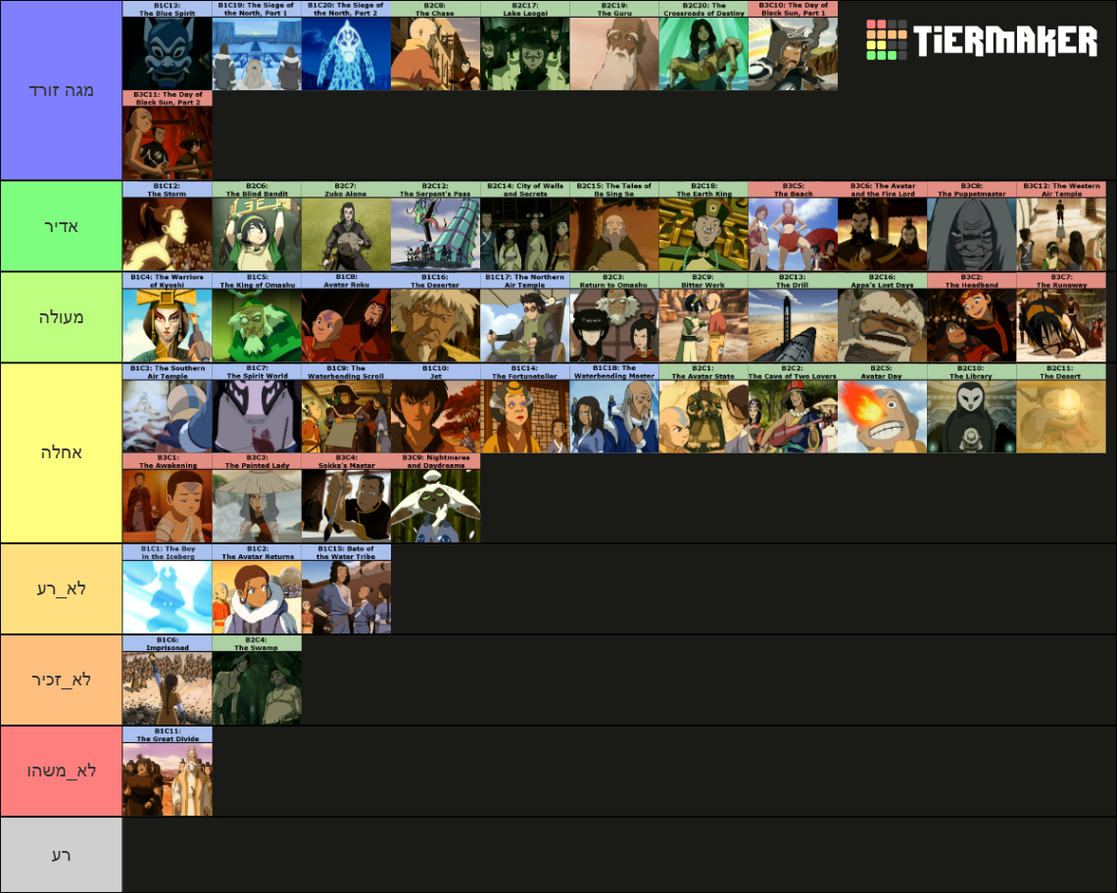
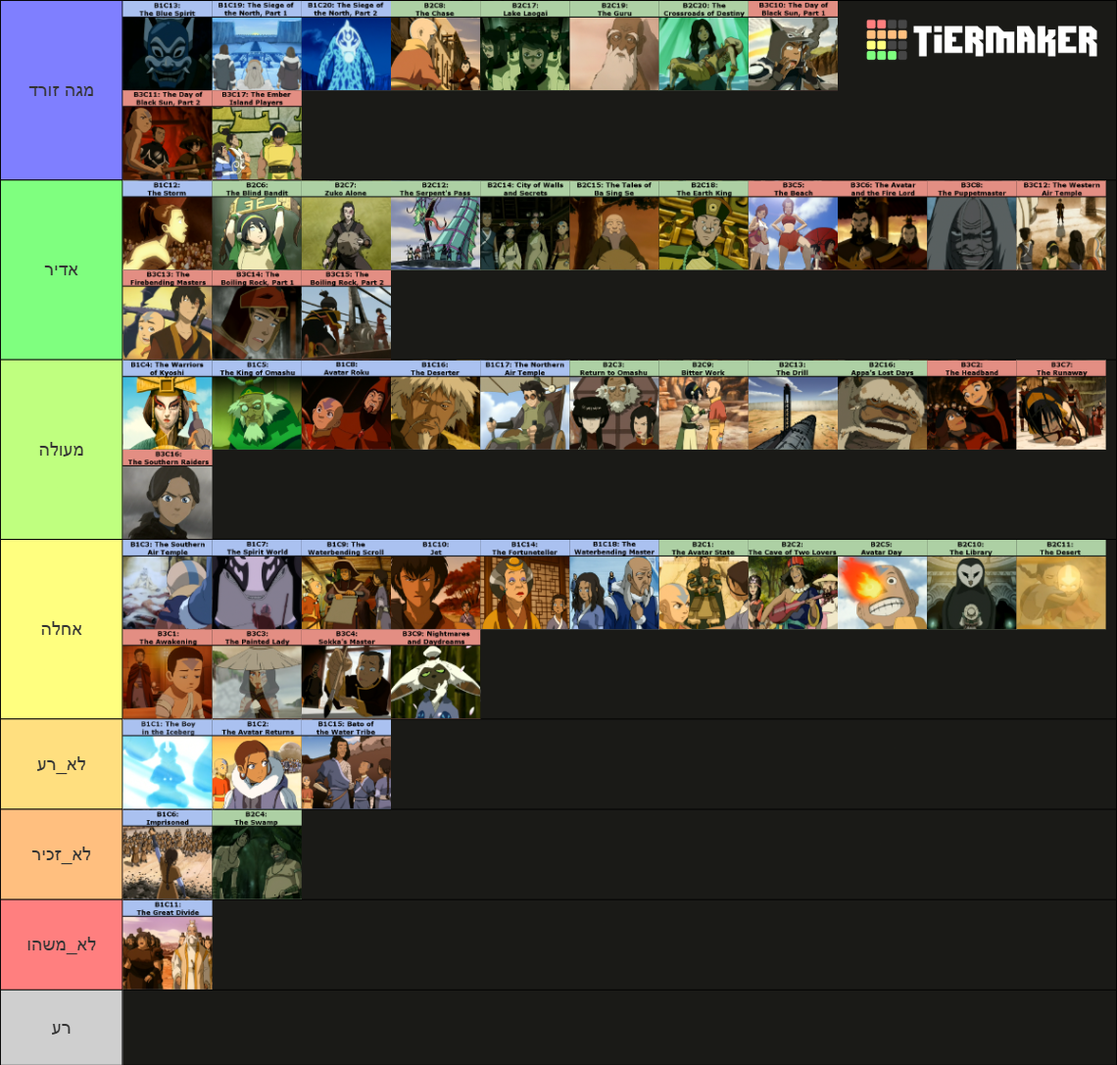
watch episode 317

diff --git a/עונה 3/313 - מאסטרי כשפות האש.md b/עונה 3/313 - מאסטרי כשפות האש.md
@@ -1,0 +1,39 @@
+![](images/313.png "313")
+## *תקציר:*
+- זוקו מנסה ללמד את אנג כשפות אש, אך מהר מאוד אנחנו מגלים שהוא איבד את הכשפות שלו. אנג חושד שזה בגלל שהכשפות של זוקו הסתמכה על זעם ושנאה, וכעת כשהם כבר לא קיימים אצלו אין לו אנרגיות לתעל אל הכשפות. טוף מציעה להם ללמוד מחדש את הכשפות מיסודה, דרך המקור – הדרקונים.
+- זוקו ואנג יוצאים לחקור את חורבות ציוויליזציית לוחמי השמש – ציוויליזציה נכחדת שסגדה לדרקונים, וממנה התפתחה אומת האש כפי שאנחנו מכירים אותה. מהר מאוד מתברר שאותה ציוויליזציה לא ממש נכחדה, אלא חיה בסתר במשך מאות שנים כדי להגן על עצמה ועל הדרקונים. לוחמי השמש מסכימים להביא את אנג וזוקו אל מאסטרי כשפות האש שמנהיגים אותם – רן ושו – כדי שאלו ישפטו אותם ויחליטו אם ללמדם.
+- המאסטרים רן ושו מתבררים כדרקונים, ואלו מראים לאנג ולזוקו חיזיון – האש שלהם מורכבת מכל צבעי הקשת. ודי בזה כדי ללמד אותם את האמת היסודית שבכשפות האש. היכולות של זוקו חוזרות אליו, ובפעם הראשונה אנג מבין שאש היא לא רק הרס, אלא גם אנרגיית החיים.
+
+## *סיכום במשפט:* 
+אש המכבייה
+
+## *ראוי לציון:* 
+- אני אוהב שאנחנו עדיין באותו מקום, במקדש האוויר המערבי. אני מקווה שנישאר פה למשך עוד כמה פרקים ושהמקום הזה יהפך למעין בית / בסיס המבצעים של טים אווטאר.
+- זוקו החדש הוא דמות חדשה, ונשאלת השאלה: מי הוא בכלל? איך הוא בתור בן אדם, איך הוא עם אנשים, איך הוא מדבר ואיך הוא מתנהג? אלו דברים שהפרק הזה עוסק בהם ובהצלחה ובהחלט נראה גם בפרקים הבאים
+- הפרק מרחיב מאוד את הדמות של איירו, ומוסיף לו המון עומק. יפה לראות שזוקו פתאום מבין שגם איירו הוא דמות עם עבר מורכב. הסדרה גם רומזת שזוקו מאמץ לאט-לאט את המניירות של איירו: החיקוי שעשה בפרק הקודם, והאמירה בפרק הזה על "לתהות על מקומנו ביקום" – זה לא סתם גאג, יש שם ניחוחות ברורים של איירו. בפרק הזה, זוקו מסתכל על איירו ברטרוספקטיבה – הוא בצד השני של התהליך שאיירו ניסה להעביר אותו. הוא פתאום מבין את הדמות של דוד שלו מחדש, מעריך אותו יותר, וזה רק מגביר את האשמה שהוא חש.
+- גם בלי להגיד את זה במפורש, הפרק הזה בהחלט מראה את הקשר החדש שמתהווה בין אנג וזוקו. מספיקים חילופי דברים קטנים כמו "אתה בעצם די חכם" או "אני מאמין בך, אתה ילד מוכשר" כדי להעביר את המסר. זה חשוב, כי אנג הוא לא סתם עוד דמות בחיים של זוקו. הסדרה ביססה שותפות גורל בין השניים – העתיד שלהם שזור זה בזה. ההחלטה שאנג ילמד כשפות אש דווקא מזוקו היא לא מקרית: כשפות האש של זוקו הייתה מושרשת ברצון שלו לתפוס את אנג. -מבחינה נראטיבית זה מאוד חכם. הכותבים יודעים מה הם עושים – תכנון הסיפור ברמת המאקרו פשוט יוצא מן הכלל.
+- הפרק מוסיף הרבה עומק למושג כשפות האש, ומבסס את הרעיון שאומת האש המודרנית עיוותה את יסודות האמנות הזו. חלק חשוב מהשיבוש הזה הוא איבוד הכבוד לדרקונים. הסצנה של האש הצבעונית מאוד חזקה – גם ויזואלית מרהיבה וגם מעבירה בצורה אלגנטית את הרעיון הבסיסי של מהות כשפות האש, בלי מילים מיותרות.
+- הסיקוונס של הריקוד עם הדרקונים פשוט מגניב בטירוף.
+- בשעה טובה הפרק הזה סידר לי את עניין החיות, גם אם הוא לא אמר על זה הרבה במפורש.
+- בשלב הזה כל משפט, כל דיאלוג וכל רפליקה – הם פאן סרוויס. וזה טבעי, ככה זה תמיד כשמגיעים ליישורת האחרונה של סיפור שחלק גדול מהלב שלו הוא דינמיקה בין דמויות.
+ 
+## *פחות התחברתי:*
+- חבל לי על הארו, תיאו ודיוק. בהתחלה מאוד התלהבתי מזה שטים אווטאר מתרחב – זה מגניב בטירוף. אבל משום מה, הסדרה לא בקטע של זה: בשני הפרקים האחרונים היא דחקה את הדמויות האלו הצידה בכוח. אז למה מלכתחילה? אני בכלל חשבתי שהרעיון הוא להראות איך טים אווטאר מתפתחים מקבוצת חברים שמסתובבת סתם ככה לכוח לחימה משמעותי שסוחף אחריו אנשים. רציתי לראות את טים אווטאר נהיים שחקן הנהגתי חשוב במלחמה, לא רק ארבעה ילדים – אלא הנהגה משמעותית במלחמה הזו.
+* האמת שחשבתי שהסצנה שבה זוקו ואנג דבוקים ולא יכולים לזוז תתפתח למעין שיחת נפש עמוקה ביניהם, כי זה הרגיש כמו סטאפ קלאסי לסצנה כזו, שגם מאוד מתבקשת מבחינה תמתית וסיפורית. חבל שזה לא קרה בסוף.
+* זוקו לא חייך בסוף של הפרק.
+
+## *ה-MVP של הפרק:*  
+זוקו ואנג
+
+## *עתידות:*
+* המבט המחודש של זוקו על דוד איירו גורם לי להבין שהאיחוד של איירו וזוקו יגיע מאוד מאוחר. הסדרה תמשוך את תחושת האשמה של זוקו כלפי איירו עד הקצה.
+* אני מאוד מצפה לראות איך הסדרה תבנה את מערכת היחסים של סוקה וזוקו לאורך הפרקים הבאים. יש וייב שזה הולך להיות ברומאנס.
+* סביר להניח שעד פרקי הסיום של הסדרה יהיה פרק שלם שמתמקד באיך זוקו רוכש את האמון של קטארה. לדעתי הגיוני שזה יהיה פרק שעוסק גם בכשפות דם, ומעניין איך זוקו יגיב לזה. אולי למשל קטארה תאלץ להשתמש בכשפות דם כדי להגן על זוקו, ואולי זה איכשהו יצית משהו. או שאולי החיבור בין זוקו וקטארה יהיה דרך הצדדים האפלים שבשניהם.
+* הסדרה מתנהגת כאילו היא מעוניינת לאפשר גאולה לכל דמות שהיא מסוגלת לתת לה. אנחנו הולכים להתעמק הרבה ביותר בדילמה של אנג כשהוא יצטרך לעמוד מול אוזאי – האם הוא צריך להרוג אותו? האם הוא צריך לחוס עליו? אני לא יודע עדיין מה תהיה הפסיקה של הסדרה לגבי זה, אבל אני כן מאמין שמבחינת הסדרה לאוזאי אין תקנה. אבל לדעתי דווקא עבור אזולה הסדרה תשאיר פתח לגאולה קטנה – ככל הנראה בצורה של שיקום מערכת היחסים שלה עם זוקו. אני לא חושב שהיא תמות, אבל עדיין יצטרכו להביס אותה ולהתעמת איתה. בעיני גם טיי לי ומאי יצטרכו לקבל גאולה, וכנראה על ידי כך שהן יתנגדו אל אזולה. הכי הגיוני לי שזה יקרה בצורה של עימות ישיר של זוקו מול אזולה, שבו מאי תחליט שהיא מצדדת בזוקו במקום באזולה בגלל שהיא אוהבת אותו, וטיי לי כנראה תלך בעקבותיה ותעזור להם גם.
+* אני לא חושב שנזכה לקבל סגירה לעניין של אמא של זוקו בתחומי הסדרה הזו. אני כן חושב שהסדרה תסתיים כשזוקו יהיה הפיירלורד והוא ירצה ללכת לחפש אותה או לברר מה קרה לה. אבל אני לא מאמין שנראה את זה. לדעתי אין לזה מקום בסיפור של הסדרה
+* יש גם את עניין המבוגרים שנשארו בכלא ואני לא יודע כמה הסדרה תטרח להקדיש לזה זמן ומחשבה. כנ"ל לגבי סוקי.
+* מבחינת טוף הדבר היחידי שלא הסתיים זה מערכת היחסים שלה עם ההורים שלה. ראינו שהיא רוצה להתפייס איתם ושהיא שלחה להם מכתב, אבל לא ראינו מה קורה עם זה. אז אולי נזכה לראות את זה קורה.
+* הפרק הבא הוא פרק כפול. אין לי מושג למה לצפות ואיזה מין איבנט הוא עשוי לגולל. הימור שלי – נקבל פרק על ימיו האבודים של בוסקו.
+
+## *דירוג הפרק:*  
+אדיר

diff --git a/עונה 3/316 - הפושטים הדרומיים.md b/עונה 3/316 - הפושטים הדרומיים.md
@@ -1,0 +1,41 @@
+ ![](images/316.png "316")
+## *תקציר:*
+- קטארה עדיין זועמת על זוקו, והוא מוכן לעשות הכל כדי לפייס אותה. לאחר שהוא מתייעץ עם סוקה, זוקו מבין שקטארה עדיין מתמודדת עם זיכרון אובדן אימה שנרצחה בידי חיילי אומת האש, ומקשרת את הטראומה אליו. הוא מחליט לעזור לה למצוא את האיש שרצח את אימה, בתקווה לאפשר לה סגירת מעגל.
+- השניים יוצאים יחד למסע כדי לאתר את המפקד של הפושטים הדרומיים – היחידה של אומת האש שתקפה את שבט המים הדרומי. הם מתחקים אחר פעילות צבא האש ומצליחים לאתר את האיש – קצין זקן שכבר פרש מהצבא וחי חיים שקטים וחסרי השפעה.
+- במהלך המסע, קטארה מתמודדת עם רגשות קשים של כעס, כאב ורצון לנקמה. היא שוקלת להרוג את מפקד הפושטים הדרומיים, אך ברגע האמת, כשהיא עומדת מולו, היא מבינה שהוא כבר אדם מרוקן, חלש ופחדן – לא דמות רבת עוצמה כמו שזכרה מהעבר. לבסוף, קטארה מחליטה לחוס על חייו – לא מתוך מחילה, אלא כי היא מבינה שנקמה לא תרפא את הכאב. זוקו מכבד את ההחלטה שלה, והקשר ביניהם מתחזק. כשהם חוזרת למחנה, היא פונה לאנג ומביעה את הכרת התודה שלה על כך שהוא תמך בדרך של חמלה.
+- הפרק מסתיים כשזוקו מאמת את אנג עם שאלת מיליון הדולר, זו שאנו הצופים תוהים לגביה כבר זמן רב: בבוא העת, כיצד יתמודד אנג בפני אוזאי, נוכח דגילתו בגישה אנטי-אלימה?
+
+## *סיכום במשפט:* 
+איפה gran gran?
+
+## *ראוי לציון:* 
+- פרק טוב מאוד – זו הייתה דרך חזקה ורגשית לקרב בין זוקו לקטארה. שניהם אנשים שמתקשים לבטא רגשות, והמפגש ביניהם נעשה מתוך הבנה עמוקה של כאב אישי.
+- סצנת האקשן בתחילת הפרק מטורפת: זוקו מתגלה כיריב שקול לאזולה, מצליח להילחם באש הכחולה שלה, ונראה שהכוחות ביניהם מתאזנים – הוא מתחזק, והיא הולכת ומתפרקת.
+- בכל פרק שעובר, אנחנו רואים החמרה במצבה המנטלי של אזולה. לדעתי הבגידה של מאי וטיי לי בסוף הפרק הקודם היא הטריגר לכך. לא רק שהיא פחות יציבה, אלא שעכשיו היא גם מונעת משנאה גלויה כלפי זוקו ורצון לחסל אותו, לעומת הזלזול שראינו ממנה בעבר.
+- נראה שיכולות הקפיצה לרוחק של זוקו הופכות לאבסורדיות מפרק לפרק
+- סצנת הכשפות של קטארה (לא רק כשפות דם) מאוד אפקטיבית – האווירה לחוצה, מאיימת, כמעט אימתנית. היכולות שלה לא מוצגות ככוח מגניב אלא כמשהו שמעורר יראה ורתיעה.
+## *פחות התחברתי:*
+- רעיונית, זה פרק חזק מאוד – אבל משהו בקצב או בביצוע הכולל לא התחבר לי עד הסוף.
+- היה לי רגע של אכזבה מהאופן שבו הסדרה בחרה לסכם את נושא כשפות הדם. קטארה משתמשת בכשפות הדם על האדם הלא נכון, וזה מספק לה רגע של הארה – כמה הנקמה מכלה, אפילו כשהיא מוצדקת.
+- בנוסף, אני מרגיש שזוקו לא הגיב בצורה מספקת לחשיפת הכוח הזה – הייתה לו שנייה של הלם, אבל הוא התאושש ממנה מהר מדי.
+- לא חבל על המקדש? אלפי שנים…
+- הרגע שבו קטארה סולחת לזוקו הרגיש לי חפוז מדי. נכון שהוא הרוויח את הסליחה שלה, אבל החיבוק היה מעט מוגזם. מחווה אחרת או בחירה אחרת של מילים היו עדיפות לטעמי.
+- רציתי לראות יותר כימיה וחילופי מילים משמעותיים ביניהם – מעבר לחיבור על בסיס כאב משותף.
+
+## *ה-MVP של הפרק:*  
+קטארה
+
+## *עתידות:*
+- לדעתי, אזולה תסיים את דרכה בהתמוטטות עצבים קשה. היא הולכת ומאבדת אחיזה, ולדעתי הכיוון הוא שהסדרה מתכוונת לסיים את הקשת העלילתית שלה בהתמוטטות עצבים קיצונית.
+- לדעתי ברגע האחרון, בהתאם למגמת ההדרדרות הנפשית של אזולה, היא הולכת להתהפך ממש. לדעתי ברגעי הסיום אזולה ואוזאי ילחמו ממניעים שונים: אזולה תילחם כדי לשבת על כס הפיירלורד, ואוזאי יביע חוסר נכונות להוריש לה אותו. לדעתי הסדרה לא יכולה להסתיים בלי שאזולה תילחם בשביל עצמה ולא בשביל אבא שלה. אולי אפילו היא בעצמה תהרוג את אוזאי והקרב הסופי של אנג יהיה בכלל מולה.
+- אני עדיין חושב הדרך היחידה להביס את אזולה תהיה על ידי שיתוף פעולה של כשפים מכל היסודות.
+- השערה לחלוקת פרקי הסיום:
+	- 318 - סגירת קצוות: איחוד בין זוקו ואיירו, חזרה של מאי וטיי לי (שייתכן שיצטרפו לצד "שלנו"), וכן הופעת דמויות מהעבר כמו בומי, הרוקחת, מגדת העתידות. כנראה גם רגעים נוסטלגיים שמסכמים את הדרך.
+	- 319 - אנג מגיע להחלטה: לדעתי יהיה פרק שלם שמוקדש להתחבטות של אנג בסוגיה כיצד להתעמת מול אוזאי. יהיה מעין דיאלוג פנימי, ואני לא מופתע אם תהיה גם גיחה לעולם הרוחות באיזושהי קונסטלציה.
+	- 320 - השביט: הקליימקס אליו חיכינו במשך כל הסדרה. יהיו קרבות מרהיבים, ולבסוף יגיע סיום מפתיע ולא צפוי בכלל שיוביל אותנו אל קליימקס אלטרנטיבי שונה ממה שהסדרה הכינה אותנו אליו
+	- 321 - אקורד הסיום: קליימקס אלטרנטיבי שלא נוגע אל אוזאי. לדוגמה: 
+		- אזולה מאבדת את זה סופית, מוציאה את אוזאי מחוץ לתמונה ומביאה לשולחן איום הרבה יותר חמור מהאיום של אוזאי (נגיד החרבה טוטאלית של העולם)
+		- אוזאי מובס אבל אנג נתקע במצב האווטאר, זורע הרס, והחברים מנסים להוציא אותו מזה
+		החצי השני של הפרק מוקדש לסגירת קצוות ולפרידות.
+## *דירוג הפרק:*
+מעולה

diff --git a/עונה 3/317 - שחקני אמבר איילנד.md b/עונה 3/317 - שחקני אמבר איילנד.md
@@ -1,0 +1,28 @@
+ ![](images/317.png "317")
+## *תקציר:*
+- החבורה מחליטה להשתלט על בית הקיץ הישן של משפחתו של זוקו באמבר איילנד. זוקו טוען שזה המקום האחרון שבו אזולה ואוזאי יחשבו לחפש אותם. סוקה מגלה על קיומה של הצגה מקומית שמבוססת על עלילותיהם — כפי שהן נתפסות בעיני תושבי אומת האש. החבורה מסוקרנת ומחליטה בתור בילוי ללכת לצפות בהצגה.
+- ההצגה, שמבוצעת על ידי להקת שחקנים מוגזמים ומגוחכים, מציגה את כל מה שקרה לאורך הסדרה, אך בצורה מעוותת, שטחית ולעיתים מביכה. אנג מגולם על ידי שחקנית, סוקה מדבר בעיקר על אוכל, קטארה בוכה כל הזמן, וטוף מתוארת כגבר גדול וחטוב. החבורה מגיבה בצחוק, גיחוך ולעיתים בתסכול כשהם רואים כיצד אחרים תופסים אותם.
+- מעבר להומור, הפרק מעורר מתחים רגשיים ישנים: אנג מתמודד עם רגשותיו הלא פתורים כלפי קטארה, קטארה מתלבטת לגבי מה שהיא באמת מרגישה, זוקו מתעמת עם רגשות האשמה שלו על עברו, וטוף פשוט נהנית מהכאוס.
+- הפרק מסתיים כשהשחקנים מציגים סוף "אלטרנטיבי" שבו האווטאר מפסיד, מה שמטלטל את אנג ואת שאר החבורה. למרות הכול, הם מבינים שההצגה אולי שטחית, אבל המאבק האמיתי עוד לפניהם – ואין מקום לספקות.
+
+## *סיכום במשפט:* 
+אווטאר – דברי הימים
+
+## *ראוי לציון:* 
+- איזה פרק אדיר ומקורי. אני חושב שזה פרק מבריק, שבעצם מנסה להשיג שני דברים: הראשון הוא לספק לנו הצופים סיכום של הדרך שעברנו, וגם לדמויות עצמן רטרוספקטיבה על המסע שלהן; השני הוא לספק חוויה קלילה, מצחיקה ומהנה רגע לפני הפינאלה האפית של הסדרה. לדעתי הפרק מצליח באופן מושלם בשתי המטרות.
+- לדעתי הרעיון להציג את כל זה דרך מחזה שבו הדמויות צופות בעצמן הוא מקורי, מרענן ומצוין.
+- בפרק יש הרבה הומור עצמי ומודעות עצמית. הסדרה מסתלבטת על האלמנטים היותר חלשים שבה, כמו הפרק של השבר הגדול או על זה שלא ברור מה עלה בגורלו של ג'ט.
+- הפרק מדגיש את הפער בין איך שאנשים רואים את עצמם, איך שאחרים רואים אותם – ואיך ההיסטוריה (או הזיכרון הקולקטיבי) מציגה אותם. יש כאן ביקורת על האופן שבו היסטוריה נכתבת: היא לא תמיד נאמנה למציאות, ולעיתים מגמתית – משרתת נרטיב מסוים, בהתאם לערכים של ההיסטוריון או של המדינה (כמו אומת האש). מבחינת האינטרפרטציה של אומת האש, מעניין לראות איך אזולה מוצגת לא כלוחמת חזקה אלא כמישהי רגילה שמנצלת את הטיפשות של "טים אווטאר" שמוצגים כאן באופן מגוחך. לפעמים העיוותים בהיסטוריה הם רק כדי להפוך אותה לסיפור שיותר נוח לספר – לדוגמה הפאתוס שבו קטארה מדברת או ההפיכה של סוקה לפארודיה על איך שחשבתי שהוא יהיה בתחילת הסדרה. ולפעמים, העיוותים נובעים אך ורק מטעויות או מחוסר היכרות עם התמונה השלמה – הדוגמה הכי בולטת לכך היא הסצנה בין זוקו לרוח הכחולה, שמוצגים כדמויות נפרדות.
+- מכל הדמויות דווקא זוקו מוצג באופן יחסית נאמן – זה הגיוני, כי הוא דמות מוכרת באומת האש. מספק לראות אותו מתקרנג'ג' על עצמו של פעם, אבל גם קצת כואב לראות איך הסדרה מתאמצת להביא את תחושות האשמה שלו אל הקצה רק כדי לפתור אותן באופן אדיר בפרקי הסיום. הפורקן הולך להיות מרגש מאוד.
+- אהבתי את הרגע של זוקו וטוף – הוא מפצה קצת על היעדר פרק דואט שלהם, ומתחבר עם ההיכרות של טוף עם איירו.
+- מאוד אהבתי איך ראיית כשפות האדמה של טוף מוצגת פשוטו כמשמעו כמו סונאר שפועל על צרחות. זה גם מתחבר לצד הקולני שלה וגם בדיחה טובה.
+- העיסוק ביחסים של אנג וקטארה עולה שלב: כבר לא מדובר בסאבטקסט אלא בדיאלוג ישיר. אנחנו רואים את הילדותיות של אנג: הוא לא מבין שהיא מבולבלת, ודורש ממנה תשובה מיידית.
+
+## *ה-MVP של הפרק:*  
+פועל הבמה
+
+## *עתידות:*
+הסדרה הולכת להסתיים 🥲
+
+## *דירוג הפרק:*
+מגה זורד

diff --git a/עונה 3/315 - הסלע הרותח חלק ב'.md b/עונה 3/315 - הסלע הרותח חלק ב'.md
@@ -1,0 +1,30 @@
+![](images/315.png "315")
+## *תקציר:*
+- סוקה וזוקו ממשיכים במשימה המסוכנת בתוך כלא "הסלע הרותח", לאחר שגילו שאביו של סוקה, האקודה, נשלח לשם. סוקה מתכנן ניסיון בריחה חדש, הפעם יחד עם סוקי, האקודה, וצ'יט סאנג.
+- התוכנית מסתבכת כשמאי מגיעה לכלא כדי לבקר את זוקו, והיא מתעמתת איתו לגבי עזיבתו. יחד איתה מגיעות גם אזולה וטאי לי.
+- סוקה מוכיח את עצמו כמנהיג מתוחכם שמצליח לבנות תוכנית בריחה חכמה תוך כדי תנועה – על ידי חטיפת רכבל האסירים והסעתו אל מחוץ לכלא.
+- במהלך ניסיון ההימלטות, מתפתח קרב דרמטי בין הקבוצה לבין אזולה. אך דווקא מאי, שנקרעת בין נאמנותה לאזולה לבין אהבתה לזוקו, בוגדת באזולה ומצילה את הקבוצה. כשאזולה מתעמתת איתה בזעם, טאי לי מפתיעה את כולם ובוגדת גם היא – היא משתקת את אזולה ומצילה את מאי. בעקבות זאת, אזולה מאבדת שליטה, שוקעת בזעם קר ומצווה על כליאתה של שתיהן כבוגדות.
+- הפרק מסתיים בהצלחה של הבריחה: סוקה וזוקו חוזרים עם סוקי, האקודה וצ’יט סאנג, ומביאים ניצחון מורלי חשוב לחבורה.
+
+## *סיכום במשפט:* 
+הרכבל של צוק מנרה יותר שווה
+
+## *ראוי לציון:* 
+- לדעתי ההחלטה לעשות פרק כפול היא טובה. לראות ניסיון בריחה ראשון שנכשל מגדיל את תחושת הסיכון, ומאפשר לטפל טוב יותר בקונפליקטים של סוקה כמנהיג.
+- הביצוע היה טוב ומפתיע ומותח ומרגש. וזה כל מה שצריך.
+- זוקו קיבל הרבה טיפול בפרק הזה, בין אם זו מערכת היחסים שלו עם מאי או היכולת שלו לתת אמון באנשים אחרים ולהתמסר אליהם.
+- אהבתי איך שזוקו וסוקה נלחמים בסינרגיה מול אזולה. כל פעם שאזולה תוקפת, אחד מהם מגן על השני, בין אם זה זוקו שמפנה את הברקים שלה או סוקה שמונע ממנה להתקרב אליהם בעזרת החרב שלו.
+- העימות של מאי וטאי לי מול אזולה בסוף הפרק היה מתבקש. אנחנו רואים בפעם הראשונה את אזולה כועסת ומרגישה נבגדת. מעניין לראות אותה מאבדת שליטה. היא ממש עמדה לתקוף את מאי קשות. ובדיוק בשלב הזה טאי לי מראה שאיכפת לה יותר מחברות ומסולידריות מאשר נאמנות לאזולה
+- בסוף הפרק הצטרפו עוד שלושה אנשים אל טים אווטאר ואנחנו עדיין במקדש האוויר המערבי. אז אני מתחיל לחשוב שהסדרה באמת רוצה להתחייב לתהליך של אנשים שמתאספים סביב טים אווטאר לאורך הדרך, והפיכתו לנחלת הכלל.
+ 
+## *פחות התחברתי:*
+הלהביורים של אזולה הופכים אותה למנוע סילון וזה קצת מוגזם בעיני
+
+## *ה-MVP של הפרק:*  
+מאי
+
+## *עתידות:*
+- אנחנו בעיצומה של טרילוגיה בארבעה פרקים: הפרק הראשון היה הרפתקה של אנג וזוקו. הפרקים השני והשלישי היו הרפתקה של סוקה וזוקו. הפרק השלישי יהיה הרפתקה של קטארה וזוקו - פרק שבו הוא רוכש את האמון של קטרה ויש התייחסות משמעותית לנושא כשפות הדם. לדעתי, הפרק יחבר בין זוקו וקטארה על ידי הצדדים האפלים שקיימים בשניהם. לדעתי טוף וזוקו לא יקבלו פרק ביחד, כי אין ממש תמות שמחברות ביניהם. הקצה הפתוח היחידי בדמות של טוף הוא האיחוד שלה עם הוריה לאחר ששלחה להם מכתב, אבל אני לא כל כך מבין איך אפשר לבנות פרק שלם סביב זה. במיוחד לאור העובדה שאני לא מאמין שנושא היעלמותה של אמא של זוקו ייפתר בתחומי הסדרה. לדעתי פרק 317 והאחרון לפני פרקי סיום הסדרה יעסוק במשהו אחר. 
+
+## *דירוג הפרק:*
+אדיר

diff --git a/עונה 3/314 - הסלע הרותח חלק א'.md b/עונה 3/314 - הסלע הרותח חלק א'.md
@@ -1,0 +1,24 @@
+![](images/314.png "314")
+## *תקציר:*
+- זוקו וסוקה יוצאים יחד למשימה מסוכנת – לפרוץ לכלא השמור ביותר של אומת האש, המכונה "הסלע הרותח", במטרה לשחרר את אביו של סוקה, האקודה, שנשבה לאחר הפלישה ביום השמש השחורה.  
+- השניים משתמשים בבלון מלחמה כדי להגיע לאי הכלא, המוקף באגם רותח שהופך את הבריחה לכמעט בלתי אפשרית. הם מתחזים לסוהרים ומצליחים להסתנן פנימה, אך לא מוצאים את האקודה.  
+- במהלך השהות בכלא מגלה סוקה לתדהמתו שסוקי נמצאת שם – היא נשבתה בעבר על ידי אזולה.  
+- לקראת סוף הפרק, כשנראה שהתוכנית להבריח את סוקי ואת עצמם כמעט מצליחה, מתגלה בעיה: קבוצה נוספת של אסירים מגיעה – ייתכן שבתוכה נמצא גם אביו של סוקה. כעת סוקה ניצב בפני דילמה קשה – לברוח מיד ולהציל את סוקי, או להישאר ולנסות לשחרר גם את אביו, תוך סיכון האפשרות לחלץ את סוקי.  
+- לבסוף מחליטים סוקה, זוקו וסוקי להישאר לילה נוסף בסלע הרותח, בעוד מספר אסירים אחרים – שגילו על ניסיון הבריחה – בורחים במקומם. הבריחה נכשלת, ולמזלם, סוקה, זוקו וסוקי לא השתתפו בה. הפרק מסתיים כאשר האסירים החדשים מגיעים, והאקודה אכן אחד מהם.
+
+## *סיכום במשפט:* 
+"That's rough, buddy."
+
+## *ראוי לציון:* 
+* אהבתי מאוד את הפתיחה, שבה זוקו מגיש תה לחבריו ומנסה לספר בדיחה של דודו איירו – עוד ניסיון מצדו לאמץ את דרכיו של דודו. כפי שכבר דיברנו בעבר, תחושת האשמה והבגידה שזוקו חש כלפי איירו הולכת ומעמיקה, ונועדה להעצים את סצנת האיחוד המרגשת ביניהם בעתיד.
+* זוקו לא היה חייב להצטרף לסוקה. הוא בחר בכך – לא רק כדי להוכיח את עצמו בפניו, אלא מתוך דאגה כנה. הוא מבין שלמרות הסכנה, סוקה לא יוותר על המשימה, ולכן מחליט להצטרף אליו כדי לעזור ולהגן עליו.
+* גם הפרק הזה עוסק במסע ההתבגרות של סוקה והפיכתו למנהיג. לא במקרה, כבר בשלב מוקדם של הפרק, זוקו הופך בעצמו לאסיר – והאחריות על כל יתר הדמויות מוטלת בלעדית כמעט על סוקה. כולם נותנים בו אמון, והוא היחיד שנמצא בעמדת כוח.
+* הברומאנס בין זוקו לסוקה מתפתח ומקבל התייחסות – גם אם בצורה מעט שונה מהמצופה. הדיאלוג ביניהם על גבי אפה מצליח להיות גם מצחיק וגם מרגש, ונותן לשניהם רגע של הזדהות הדדית סביב ההקרבות שנאלצו לעשות במערכות היחסים שלהם.
+* מעבר לכימיה החברית, הפרק מציג גם כימיה טקטית ומבצעית חזקה ומפתיעה ביניהם. האמון ביניהם מתפתח במהירות רבה, ולעומק מתפיע.
+* עוד מימד של השוואה בין השניים הוא האיזון בין תכנון קדימה לאימפולסיביות: אם בעבר זוקו היה פועל מתוך דחף וסוקה מתוך מחשבה, הרי שכאן נדרשים שניהם למצוא איזון בין שני הסגנונות. 
+
+## *ה-MVP של הפרק:*  
+זוקו
+
+## *דירוג הפרק:*
+אדיר
